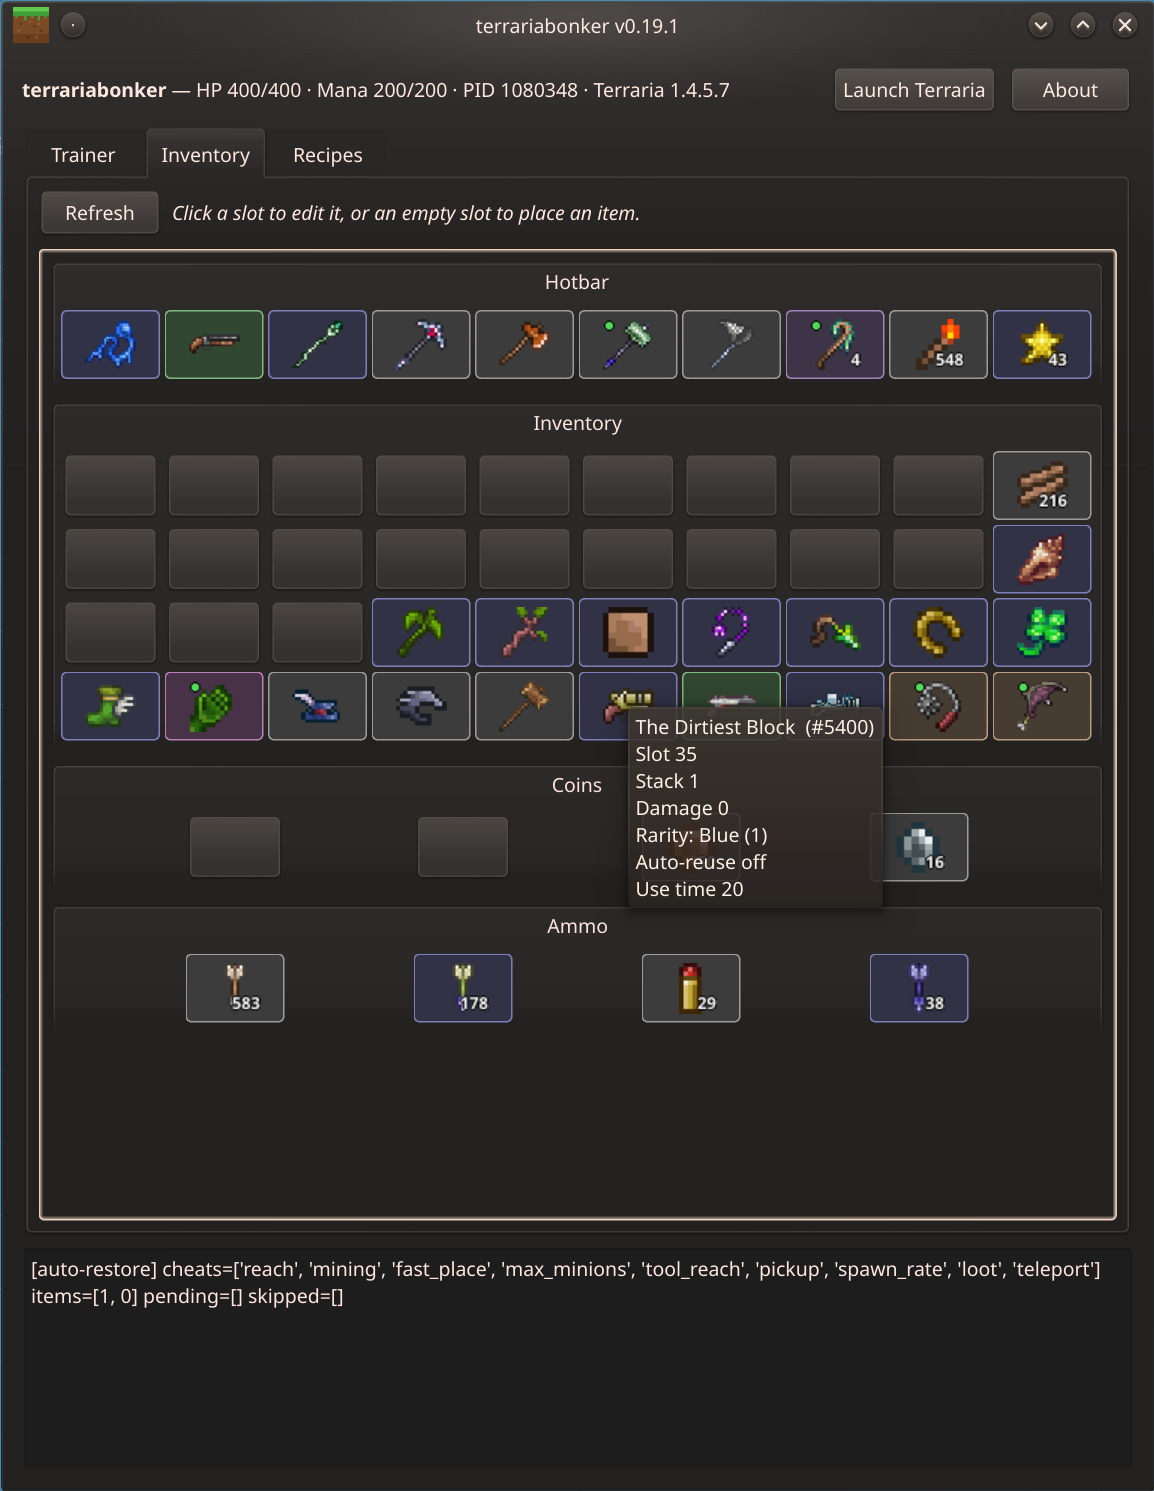
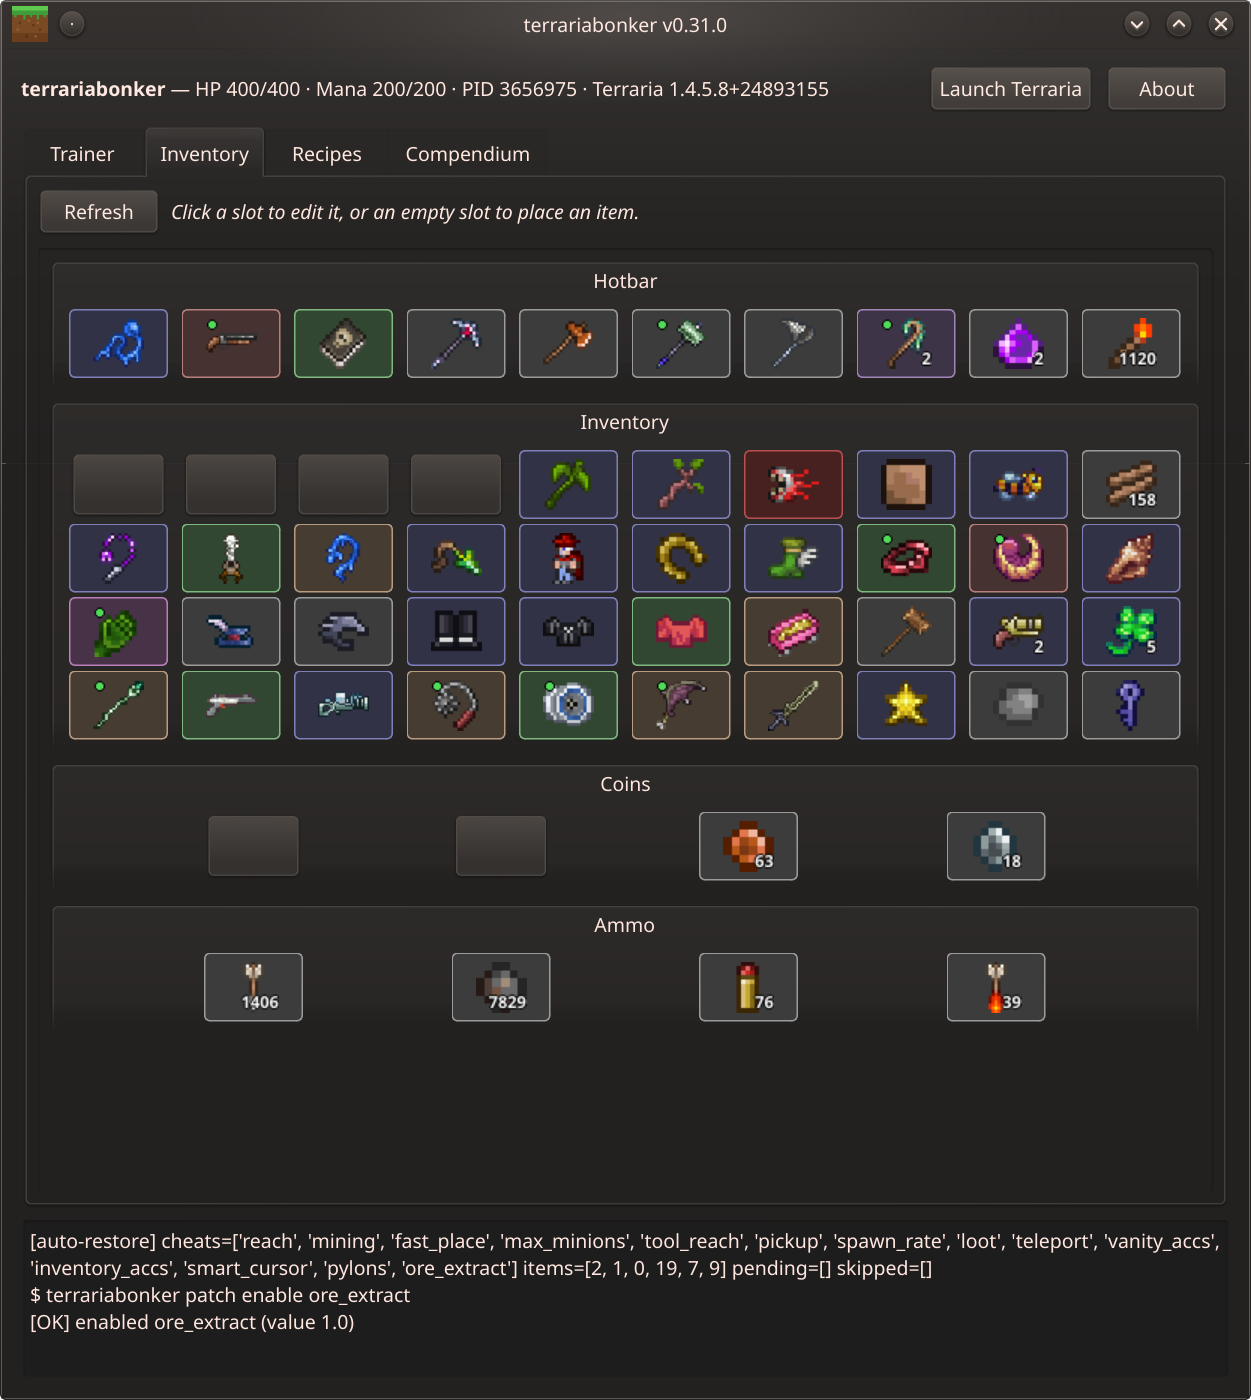
docs: refresh the screenshots and add the Compendium tab
The set was from 2026-08-22 and predated pylons, the smart-cursor clamp and the ore
extractor, so the Trainer shot showed a Build group that no longer matches the app.
Compendium had never been captured at all — the README referenced three tabs for a
four-tab window.

Captured on the KDE session with the panel raised by window class, because the active
window is the terminal whenever the maintainer is typing, and for the two shots with a
dialog open the active window is the dialog rather than the panel behind it.

Alt text now describes what is actually on screen rather than what used to be: the
Recipes dialog is Frost Helmet, not Zenith, and the Inventory shot has no tooltip up.

diff --git a/README.md b/README.md
@@ -14,11 +14,13 @@ side, to re-derive patch offsets after a game update — see
 *This edits your own single-player game in memory. It writes nothing to disk and
 holds no state; stopping it ends every effect.*
 
-![Trainer tab: godmode and infinite-mana freezes, HP/mana stat edits, tool reach, and the code-patch list with per-patch values](assets/screenshot-trainer.png)
+![Trainer tab: godmode and infinite-mana freezes, HP/mana stat edits, tool reach, and the Build group of code patches with their per-patch values — mining speed, placement and tool reach, multiple pylons, smart-cursor radius, and the ore extractor set to sweep ores and gems](assets/screenshot-trainer.png)
 
-![Inventory tab: the item grid mirroring the in-game layout, with sprite icons, rarity tinting, and a slot tooltip showing ItemID, stack, damage, rarity and use time](assets/screenshot-inventory.png)
+![Inventory tab: the item grid mirroring the in-game layout — hotbar, main inventory, coins and ammo — with sprite icons, rarity-tinted slot borders and stack counts](assets/screenshot-inventory.png)
 
-![Recipes tab: the craftable-item browser with a recipe dialog open on Zenith, listing its crafting station and every ingredient](assets/screenshot-recipes.png)
+![Recipes tab: the craftable-item browser filtered over 3214 items, with a recipe dialog open on Frost Helmet listing its crafting station (Mythril Anvil) and both ingredients](assets/screenshot-recipes.png)
+
+![Compendium tab: the item and NPC browser filtered to bosses and sortable by damage, defense, life and ID, with a Moon Lord dialog showing its stats, a wiki link, and a spawn control with an adjustable distance](assets/screenshot-compendium.png)
 
 ## Table of Contents
 
